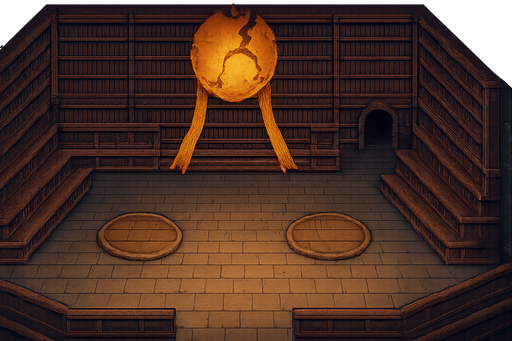
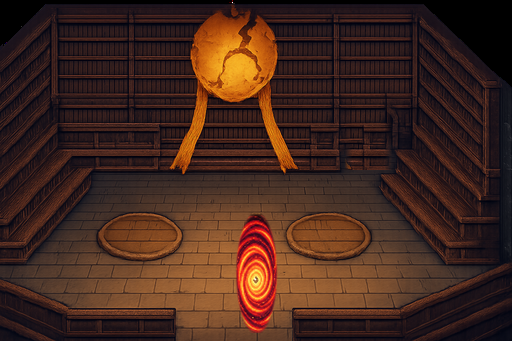
Arena: remove the door, add the Lounge's portal at the bottom
Reverting an earlier full regeneration of this room that missed the
point twice: it discarded art the owner already liked ("the ceiling is
great") for a new AI interpretation that looked nothing like the
original, and the reused-portal idea got implemented as the Lounge's
full stone-archway prop when the ask was "just a portal, no arch".

What actually shipped: edited the ORIGINAL bg-arena.png directly.
- Cloned the bookshelf pattern from beside the old doorway over it —
  same pixels, same lighting, reads as one continuous wall.
- Cropped just the swirling vortex out of ROOMS.lounge's own
  prop_lg_portal.png (no stone arch, no wood trim) and composited it
  onto the floor near the front of the room.
- Ceiling orb, walls, stands and duelling platforms are all completely
  untouched — literally the same pixels the owner called great.

Room stays on the legacy floorPoly/obstacles/exits shape (never
migrated to the three-pass standard); only the exit trigger moved, to
match the portal's new position at the bottom instead of the old door
on the right wall. rooms/arena.json and its FLOOR_PLATE_ROOMS entry from
the abandoned regeneration are removed along with it.

Changed region(s): [[0.0, 0.0, 1.0, 0.2639], [0.4375, 0.6158, 0.5625, 0.9677], [0.6562, 0.2933, 0.7812, 0.4985]]

diff --git a/games/the-game/story.js b/games/the-game/story.js
@@ -612,27 +612,34 @@ window.NEWSEY_STORY = (function () {
     arena: {
       bg: "arena",
       label: "The Arena",
-      // Regenerated to the plot: "a room about as large as a high school
-      // gymnasium, but that looked like a library. In the middle of the
-      // ceiling was a gigantic swirling golden orb" — bookshelf walls, tiered
-      // stands, the cracked orb with its two ribbons hanging down, and two
-      // duelling platforms in the flagstones fifteen paces apart. You arrive
-      // standing on the near one.
+      // The plot's own words (Clubhouse PR #30): "a room about as large as a
+      // high school gymnasium, but that looked like a library. In the middle
+      // of the ceiling was a gigantic swirling golden orb." Kat and Nella
+      // "jumped through the portal together" to get here — the plot never
+      // draws a door in this room, only the portal that brought them in.
+      //
+      // bg-arena.png is the ORIGINAL generated room (bookshelves, stands,
+      // the orb+ribbons, the two duelling platforms) edited directly rather
+      // than regenerated: the doorway that used to sit on the right wall is
+      // cloned over with the bookshelf either side of it, and the SAME red
+      // swirl used for ROOMS.lounge's portal (prop_lg_portal.png, cropped to
+      // just the vortex — no stone arch, since this isn't a doorway) is
+      // composited onto the floor at the front, matching the plot's own
+      // portal rather than inventing a new one. Regenerating from scratch
+      // was tried first and came back a different room in a different
+      // style; editing the art everyone already liked was the right call.
       playerStart: { x: 111, y: 124 },
-      // bg-arena.png: the archway out is on the right at x 226-250, its foot
-      // meeting the stands at y ~84.
       // The drawn floor, traced as a polygon (see ROOM SHAPES above) — the
-      // flagstone hexagon between the two banks of stands.
+      // flagstone hexagon between the two banks of stands. Unchanged: the
+      // door removal and the portal are both within this same floor, not
+      // outside it.
       floorPoly: [[66,100],[250,100],[292,140],[283,186],[42,186],[30,140]],
       exits: [
-        { x: 224, y: 98, w: 34, h: 22, to: "lounge", link: "portal" }
-        // REMAPPED off the art (walk-arena.png), not typed by eye. It used
-        // to sit at (230,78) — up in the STANDS, above the top edge of the
-        // walkable platform (y=105). The only foot position whose body box
-        // could touch it grazed its corner by ONE pixel, so holding right
-        // out of the spawn walked you straight past it into the wall and
-        // the Arena was a dead end in practice. It now straddles the
-        // platform edge directly under the tunnel mouth, where you walk.
+        // The portal, measured off bg-arena.png at 320x200 (234,213,45,120
+        // at the art's native 512x341, scaled): its lower half, where you'd
+        // actually walk into the swirl. y's centre sits at 0.84 of the
+        // frame — comfortably "near" — matching what it visually is.
+        { x: 146, y: 155, w: 28, h: 28, to: "lounge", link: "portal" }
       ],
       obstacles: [ { x: 0, y: 88, w: 66, h: 20 }, { x: 250, y: 88, w: 70, h: 20 } ], // the stands
       npcs: [
